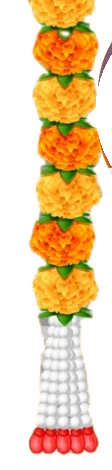
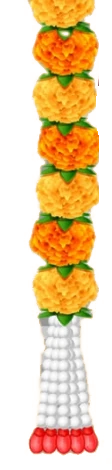
Extend garlands to top of screen, fix small-phone button bar

Changed region(s): [[0.8839, 0.2979, 1.0, 0.3872], [0.8839, 0.0894, 1.0, 0.1787], [0.8839, 0.3872, 0.9375, 0.4468]]

diff --git a/index.html b/index.html
@@ -21,6 +21,9 @@ button{font:inherit;cursor:pointer;border:0}
 .garland{position:absolute;top:0;height:470px;background-repeat:no-repeat;transform-origin:50% 0;animation:drop 1.8s .4s var(--ease) both,sway 4.5s 2.2s ease-in-out infinite}
 .garland.l{left:0;width:112px;background-image:url(garland-l.png)}
 .garland.r{left:945px;width:135px;background-image:url(garland-r.png)}
+.garland::before{content:"";position:absolute;left:0;width:100%;bottom:100%;height:1400px;background-repeat:repeat-y;background-position:0 100%}
+.garland.l::before{background-image:url(garland-tile-l.png)}
+.garland.r::before{background-image:url(garland-tile-r.png)}
 @keyframes drop{from{transform:translateY(-500px)}}
 @keyframes sway{0%,100%{transform:rotate(-1.6deg)}50%{transform:rotate(1.6deg)}}
 
@@ -94,6 +97,7 @@ button{font:inherit;cursor:pointer;border:0}
 .pill.share{background:linear-gradient(135deg,#ffd25e,#f2a900);color:var(--deep);border:1.5px solid #c7810a}
 .pill.ghost{background:#fff;color:var(--red);border:1.5px solid #e0a83a}
 @media (max-width:380px){.pill{padding:0 14px;font-size:14px;gap:5px}.bar{gap:8px;padding:8px 10px}}
+@media (max-width:340px){.pill{padding:0 10px;font-size:13px;gap:4px;height:46px}.pill svg{width:18px;height:18px}.bar{gap:6px;padding:8px 10px}.shutter{width:68px;height:68px}.shutter i{width:52px;height:52px}.round{width:46px;height:46px}}
 
 @media (prefers-reduced-motion:reduce){*{animation-duration:.01s!important;animation-iteration-count:1!important;transition-duration:.01s!important}}
 </style>

diff --git a/README.md b/README.md
@@ -19,4 +19,4 @@ Or push to GitHub and import the repo at vercel.com/new (Framework: Other, no bu
 ## Files
 - `index.html` – the whole app (HTML/CSS/JS)
 - `frame.jpg` – original frame (used for the saved photo)
-- `frame-base.jpg`, `garland-l.png`, `garland-r.png`, `banner.png` – frame split so the garlands animate and the message banner sits on top of the photo
+- `frame-base.jpg`, `garland-l.png`, `garland-r.png`, `banner.png`, `garland-tile-l.png`, `garland-tile-r.png` – frame split so the garlands animate and the message banner sits on top of the photo
